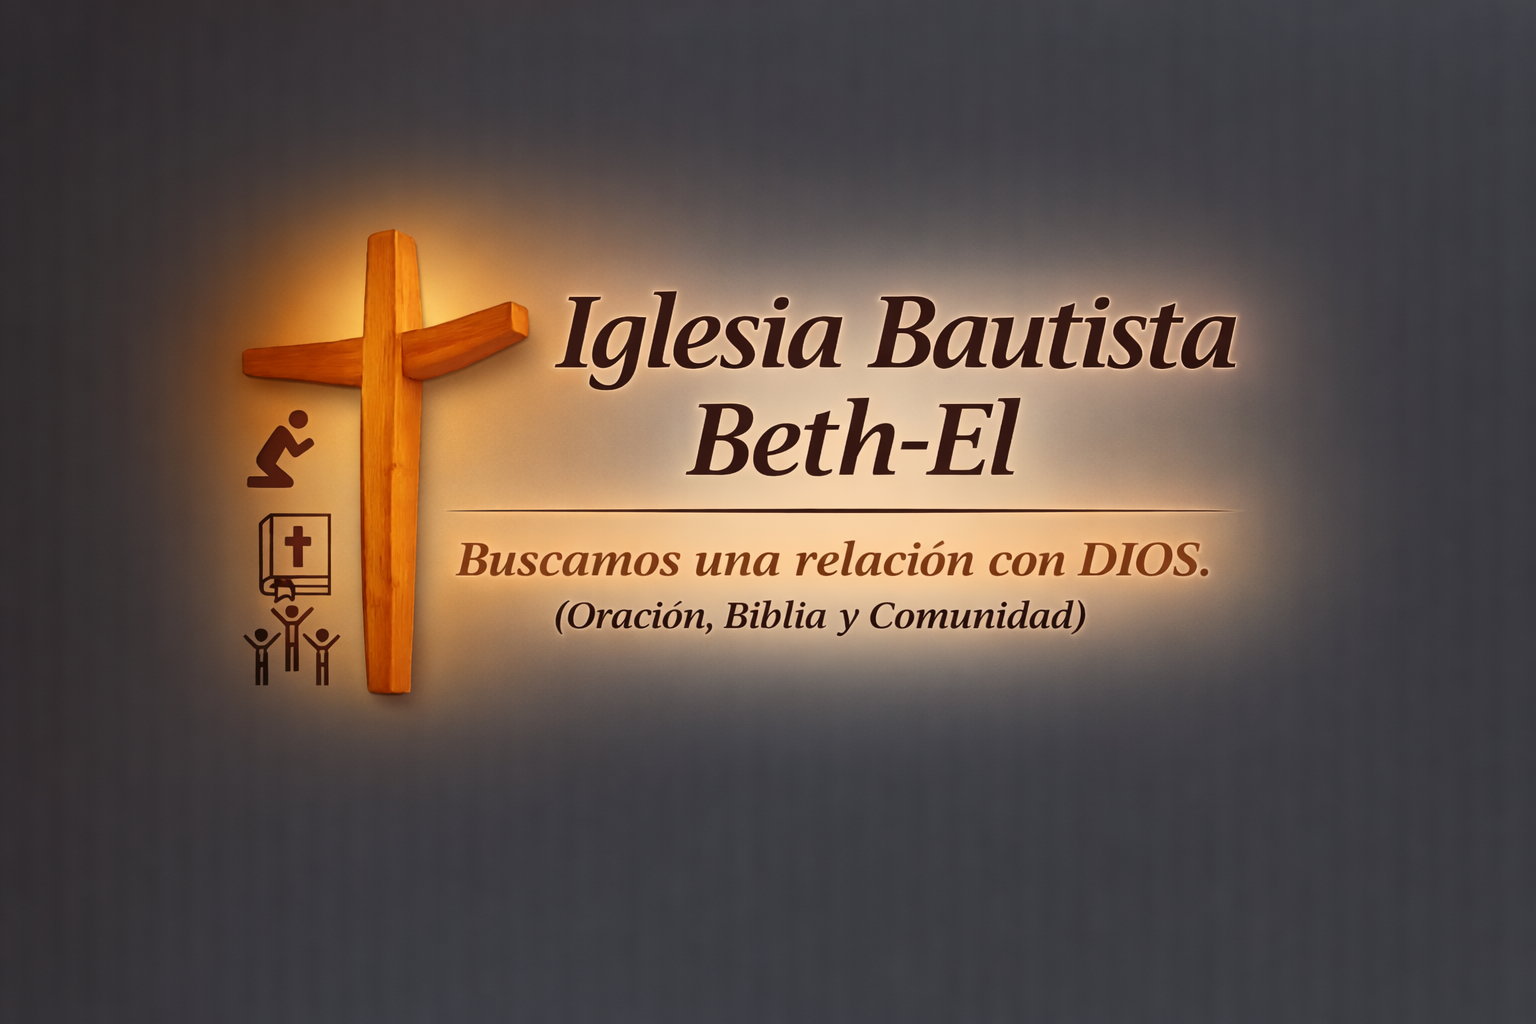
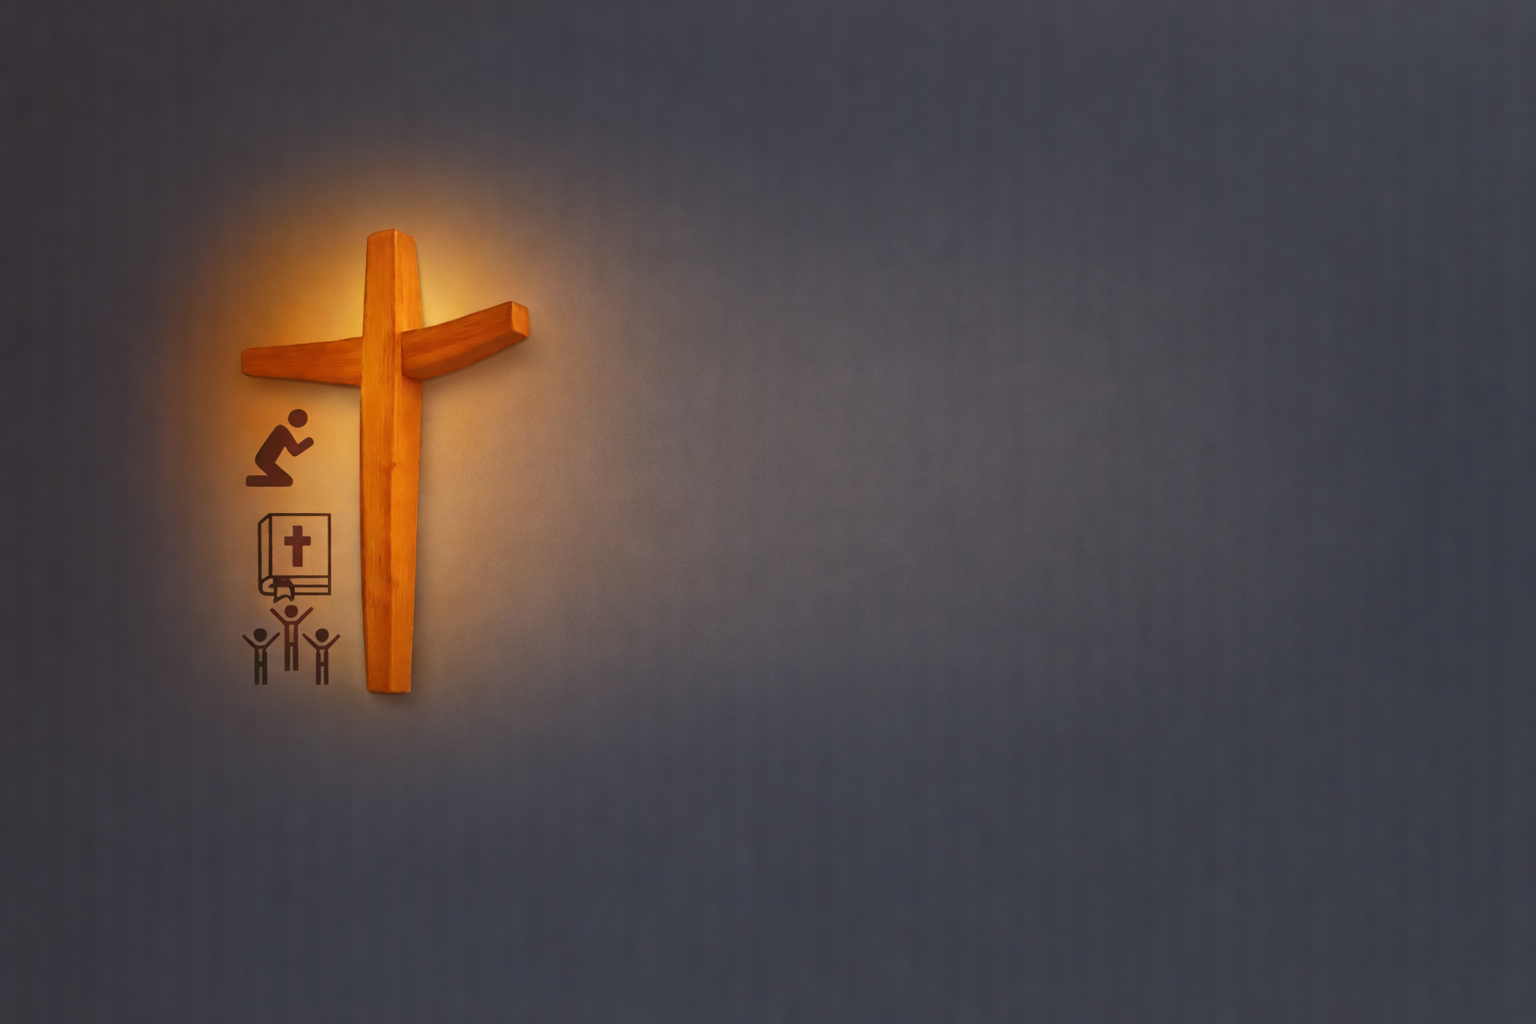
Cambios generales en el index

Changed region(s): [[0.1562, 0.2188, 0.875, 0.6875]]

diff --git a/css/style.css b/css/style.css
@@ -139,14 +139,64 @@ img {
     /* Imagen limpia sin overlay, ocupando toda la pantalla */
     background: url("../img/ChatGPT Image 6 feb 2026, 14_43_58.png") center center / cover no-repeat;
     height: 100vh; /* Fallback */
-    height: 100dvh; /* Ocupa toda la altura de la ventana (móvil optimizado) */
+    height: 100dvh; /* Ocupa toda la altura de la ventana */
     width: 100%;
     position: relative;
+    display: flex;
+    justify-content: flex-end; /* Alinear contenido a la derecha */
+    align-items: center;
+    text-align: center;
+    padding-right: 5%; /* Espacio desde la derecha */
 }
 
-/* Estilos de contenido eliminados ya que el texto está en la imagen */
+/* Capa oscura superpuesta para mejorar legibilidad del texto */
+.hero::before {
+    content: '';
+    position: absolute;
+    top: 0;
+    left: 0;
+    width: 100%;
+    height: 100%;
+    background: rgba(0, 0, 0, 0.3); /* Oscurecer un poco menos (30%) */
+    z-index: 0;
+}
+
 .hero-content {
-    display: none;
+    display: block; /* Restaurar display */
+    position: relative;
+    z-index: 1; /* Estar sobre la capa oscura */
+    padding: 20px;
+    max-width: 700px; /* Ancho máximo controlado */
+    margin-right: 5%; /* Mover un poco más a la derecha */
+    animation: fadeInUp 1.2s ease-out; /* Animación de entrada suave */
+}
+
+@keyframes fadeInUp {
+    from {
+        opacity: 0;
+        transform: translateY(30px);
+    }
+    to {
+        opacity: 1;
+        transform: translateY(0);
+    }
+}
+
+.hero h1 {
+    font-size: 3.8rem;
+    color: var(--white);
+    margin-bottom: 20px;
+    text-shadow: 0 4px 10px rgba(0,0,0,0.5);
+    font-weight: 700;
+}
+
+.hero p {
+    font-size: 1.8rem;
+    color: rgba(255, 255, 255, 0.95);
+    font-family: 'Playfair Display', serif;
+    font-style: italic;
+    text-shadow: 0 2px 5px rgba(0,0,0,0.5);
+    line-height: 1.4;
 }
 
 /* PAGE HERO */
@@ -678,16 +728,45 @@ section {
 
     /* Ajuste del Hero para móviles */
     .hero {
-        background-size: contain; /* Mostrar imagen completa */
-        background-position: center top; /* Centrada arriba */
-        background-color: #222; /* Fondo oscuro para el espacio sobrante */
-        height: auto; /* Altura automática basada en contenido/aspecto */
-        min-height: 50vh; /* Mínima altura garantizada */
-        aspect-ratio: 16/9; /* Mantener proporción si es posible */
-        margin-top: -1px; /* Fix visual gap */
+        background-size: cover; /* Volvemos a cover porque el texto ahora es HTML y flotará */
+        background-position: 20% center; /* Mostrar más el lado izquierdo (donde está la cruz) */
+        background-color: transparent; /* Ya no necesitamos el color de relleno */
+        height: 100dvh;
+        margin-top: 0;
+        justify-content: flex-end; /* Asegurar que el texto se vaya abajo/derecha si es flex */
+        padding-right: 20px; /* Reducir padding en móvil */
+        padding-left: 20px;
+    }
+
+    .hero-content {
+        margin-right: 0; /* En móvil, centrado o full width pero alineado al fondo si fuera columna */
+        max-width: 100%;
+        text-align: center; /* Texto alineado a la derecha para consistencia, o center si prefiere */
+        
+        /* Separación vertical extrema para móvil */
+        display: flex;
+        flex-direction: column;
+        justify-content: space-between; /* H1 arriba, P abajo */
+        height: 95dvh; /* Altura suficiente para separar los textos evitando el centro */
+        padding-top: 0;
+        padding-bottom: 0;
     }
 
     /* Reducir tamaño del texto en títulos para móviles */
+    .hero h1 {
+        font-size: 2.2rem; /* Un poco más pequeño para asegurar que quepa bien */
+        margin-bottom: 25px;
+        text-align: center; /* Alinear a la derecha para seguir el estilo */
+        text-shadow: 0 2px 10px rgba(0,0,0,0.8); /* Más sombra para contraste */
+    }
+
+    .hero p {
+        font-size: 1rem; /* Ajustar subtítulo en móvil */
+        text-align: center; /* Alinear a la derecha */
+        text-shadow: 0 2px 10px rgba(0,0,0,0.8);
+        margin-bottom: 20vh; /* Subir el texto inferior un 20% de la pantalla */
+    }
+
     .hero h2 {
         font-size: 2rem;
     }

diff --git a/index.html b/index.html
@@ -40,7 +40,10 @@
 
     <!-- HERO -->
     <section class="hero">
-        <!-- La imagen de fondo se maneja via CSS -->
+        <div class="hero-content">
+            <h1>Iglesia Bautista Beth-El</h1>
+            <p>Buscamos una relación con Dios<br>(Oración, Biblia y Comunidad)</p>
+        </div>
     </section>
 
     <!-- BIENVENIDA -->
